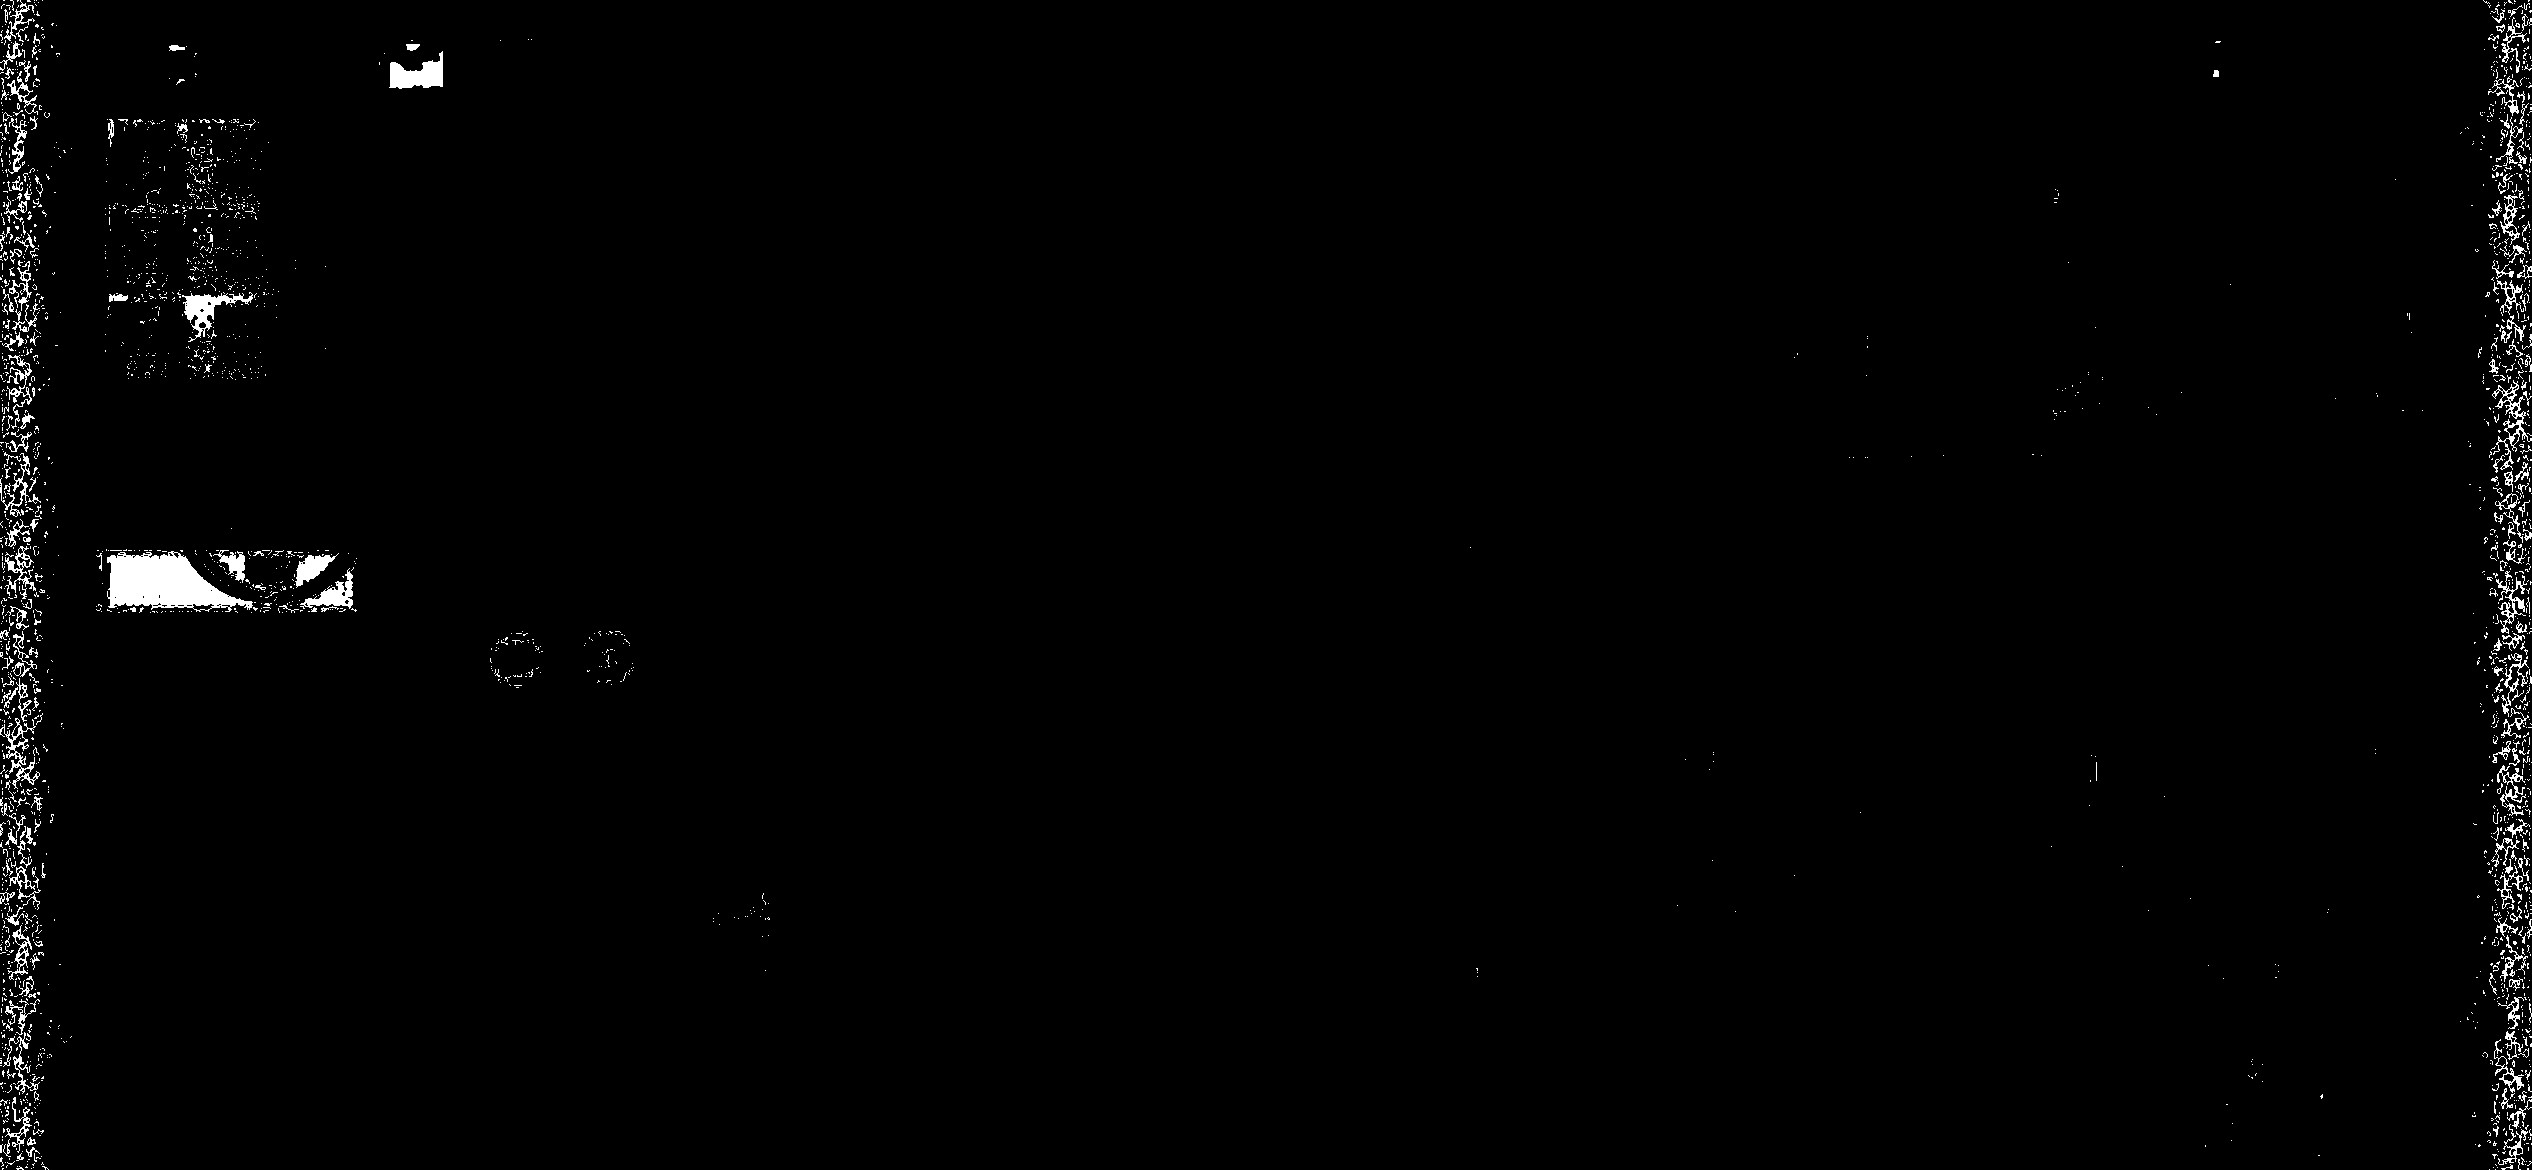
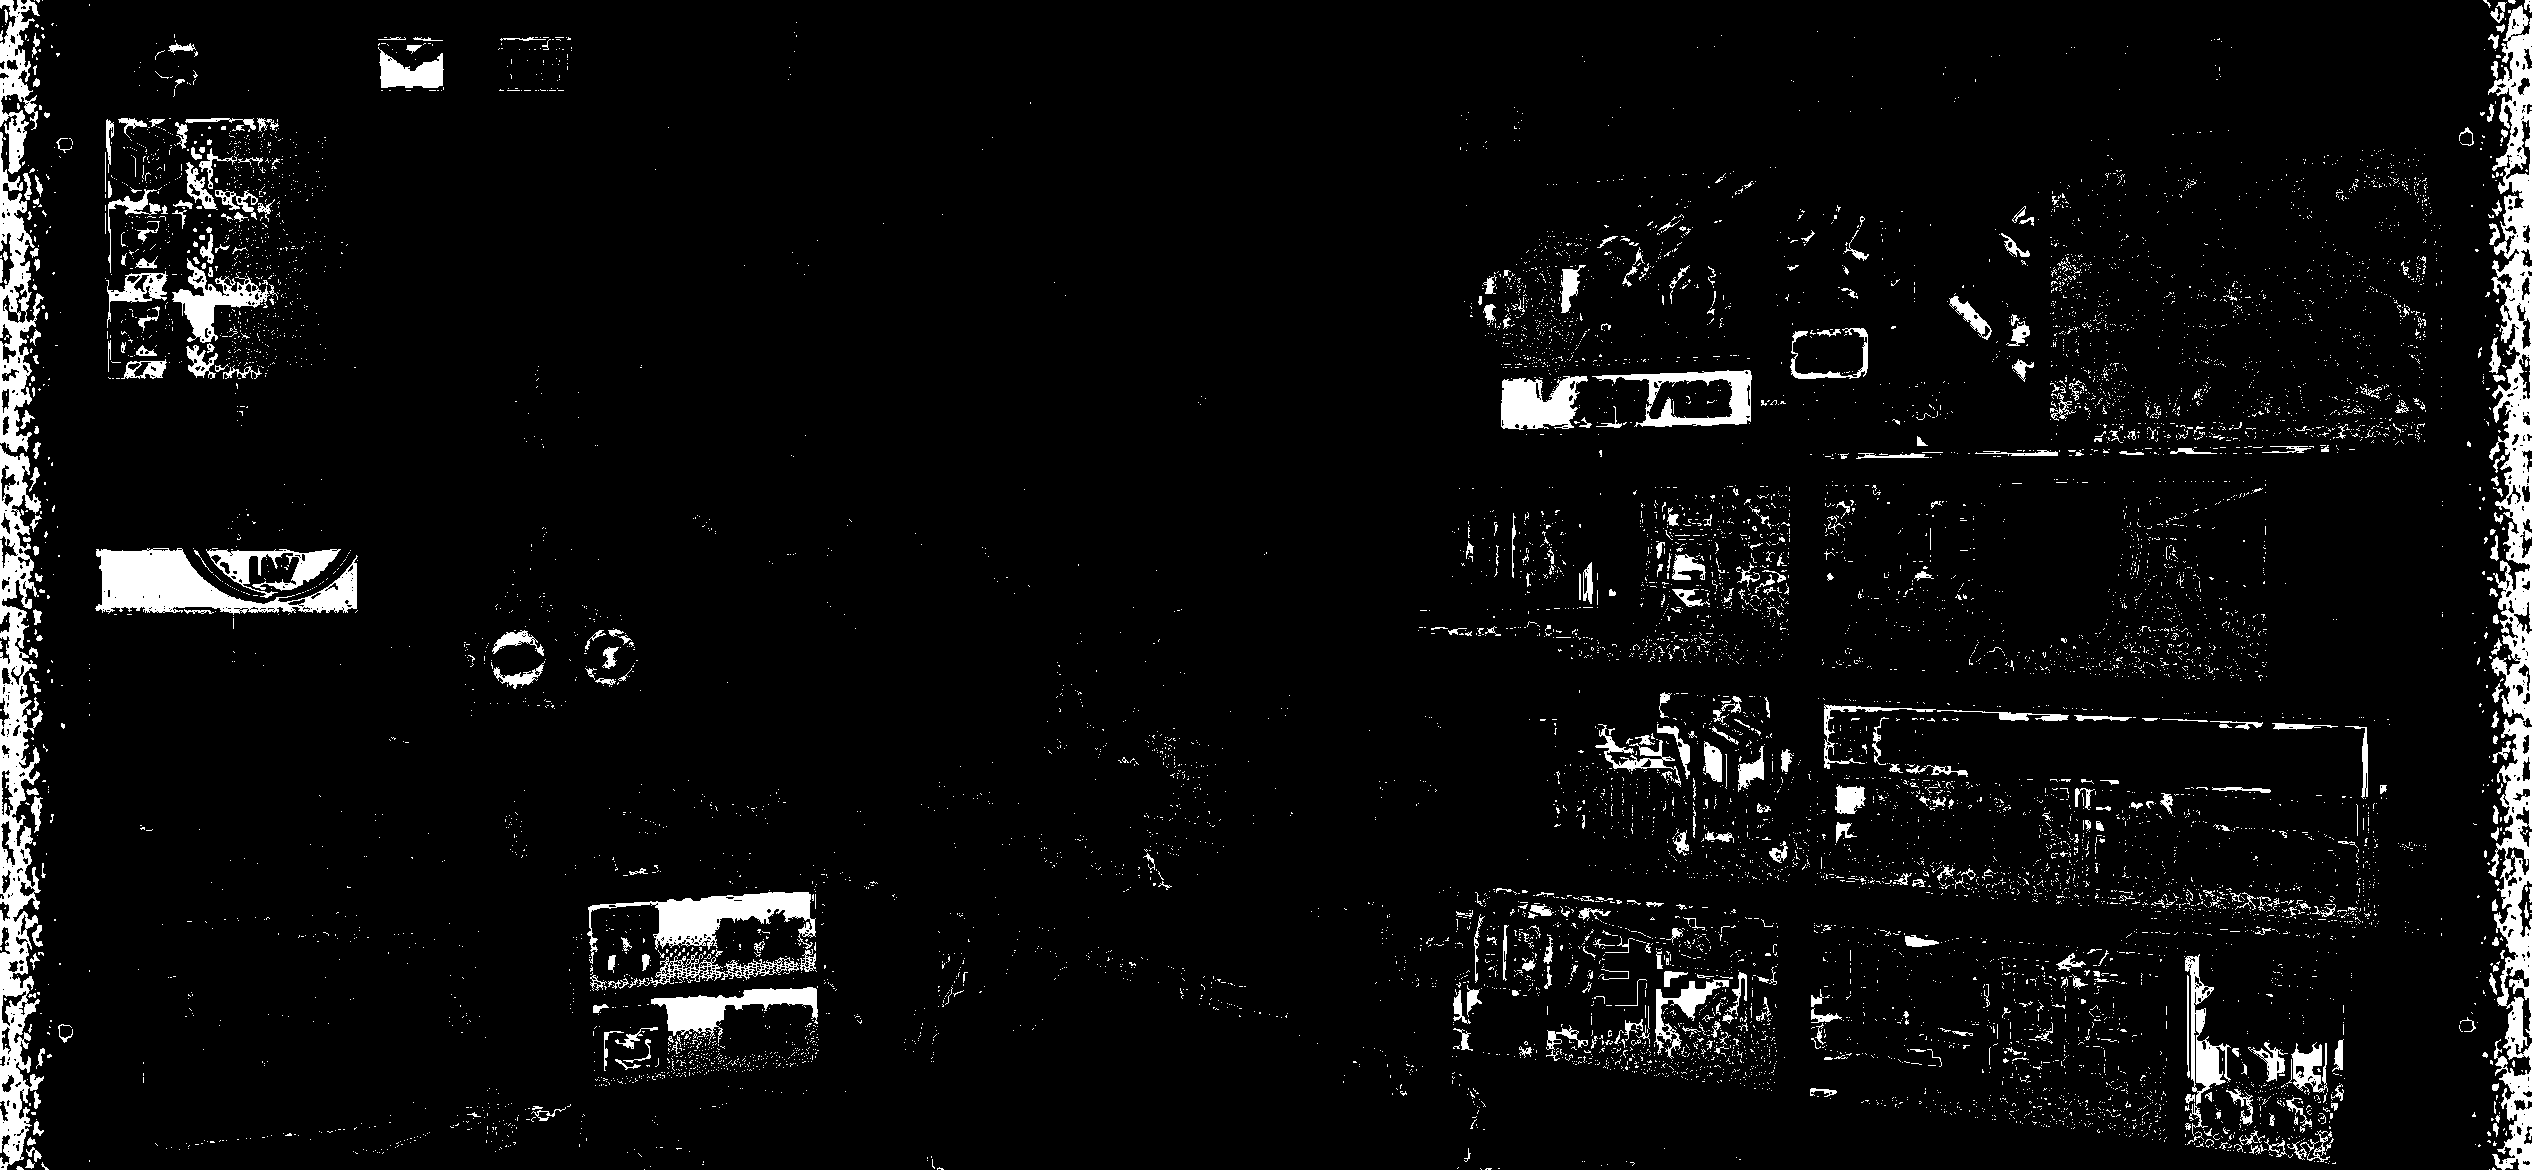
Updated train result for Arknights/Home

diff --git a/main_part.py b/main_part.py
@@ -130,7 +130,7 @@ if __name__ == "__main__":
     detector = GameUIDetector()
     
     # Example: Training from a folder
-    # detector.train_from_folder("training_input", "Brawl Stars", "Character Info")
+    detector.train_from_folder("training_input", "Arknights", "Home")
 
     # Load training results from the train_result directory
     detector.load_train_results()
